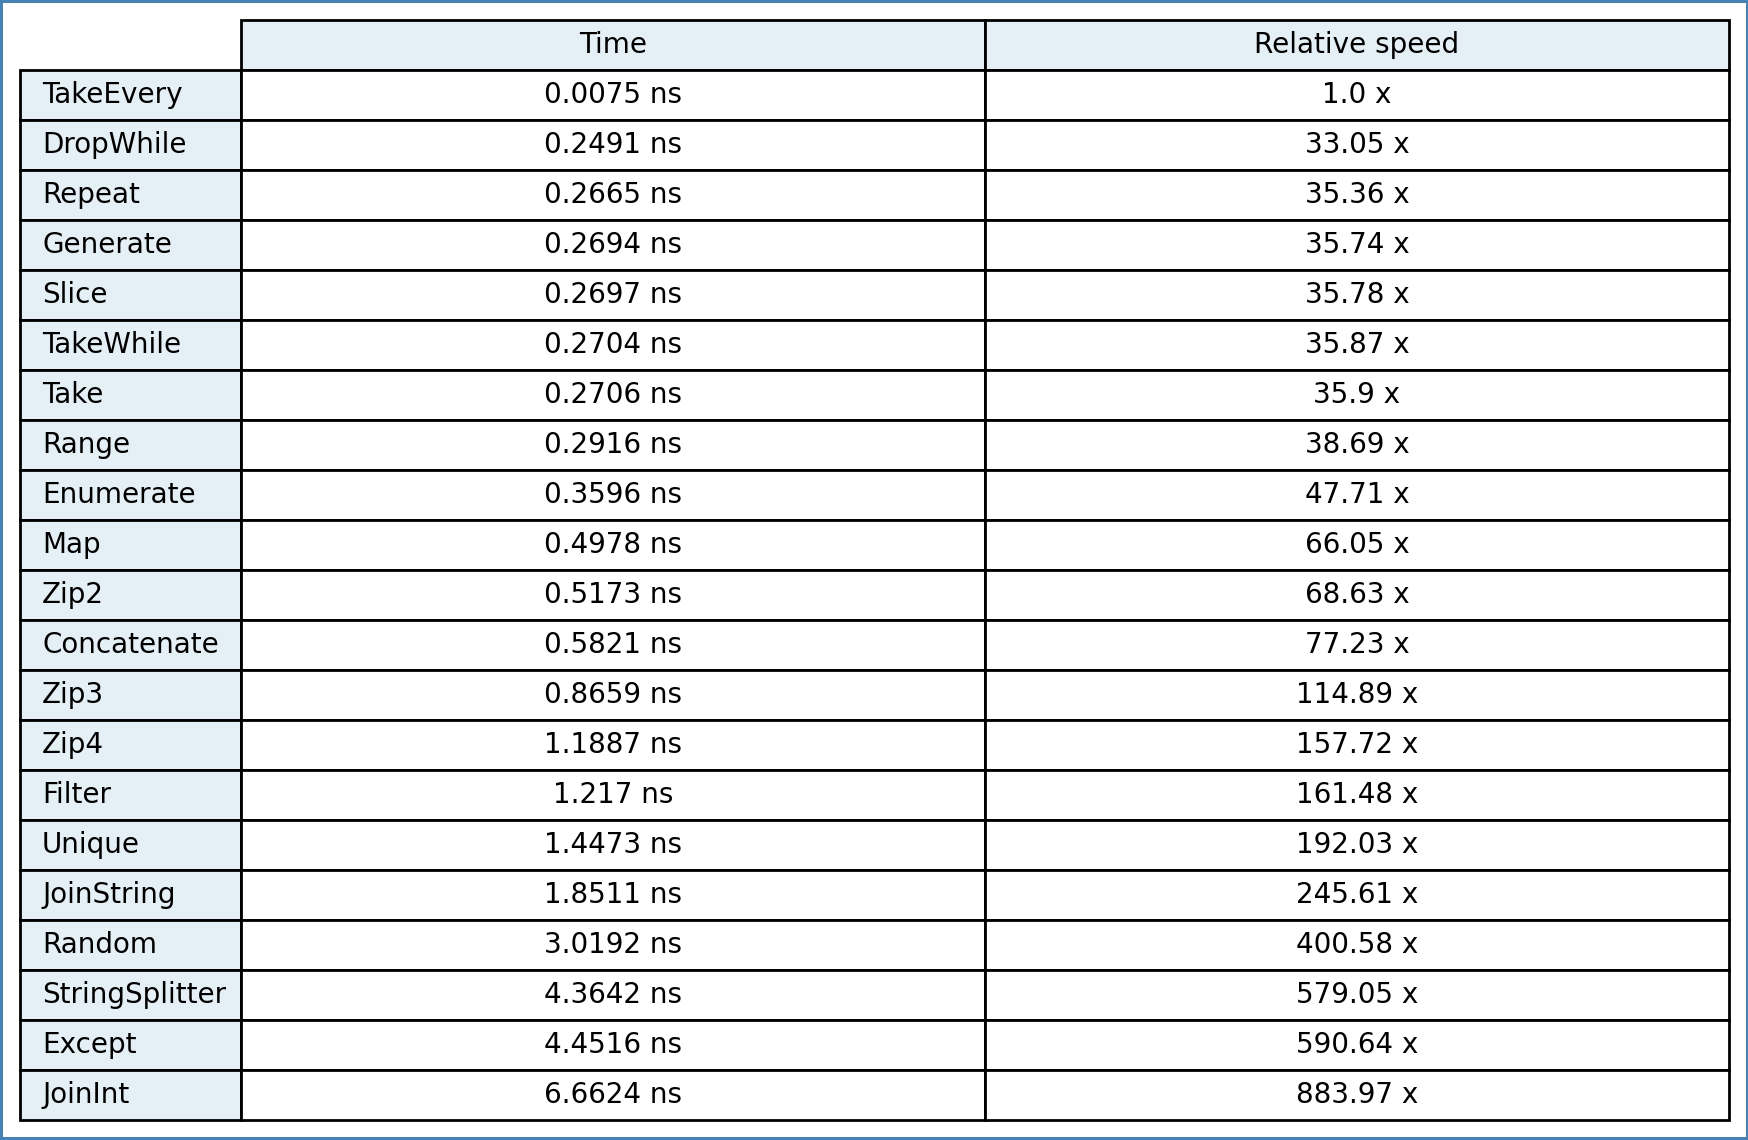
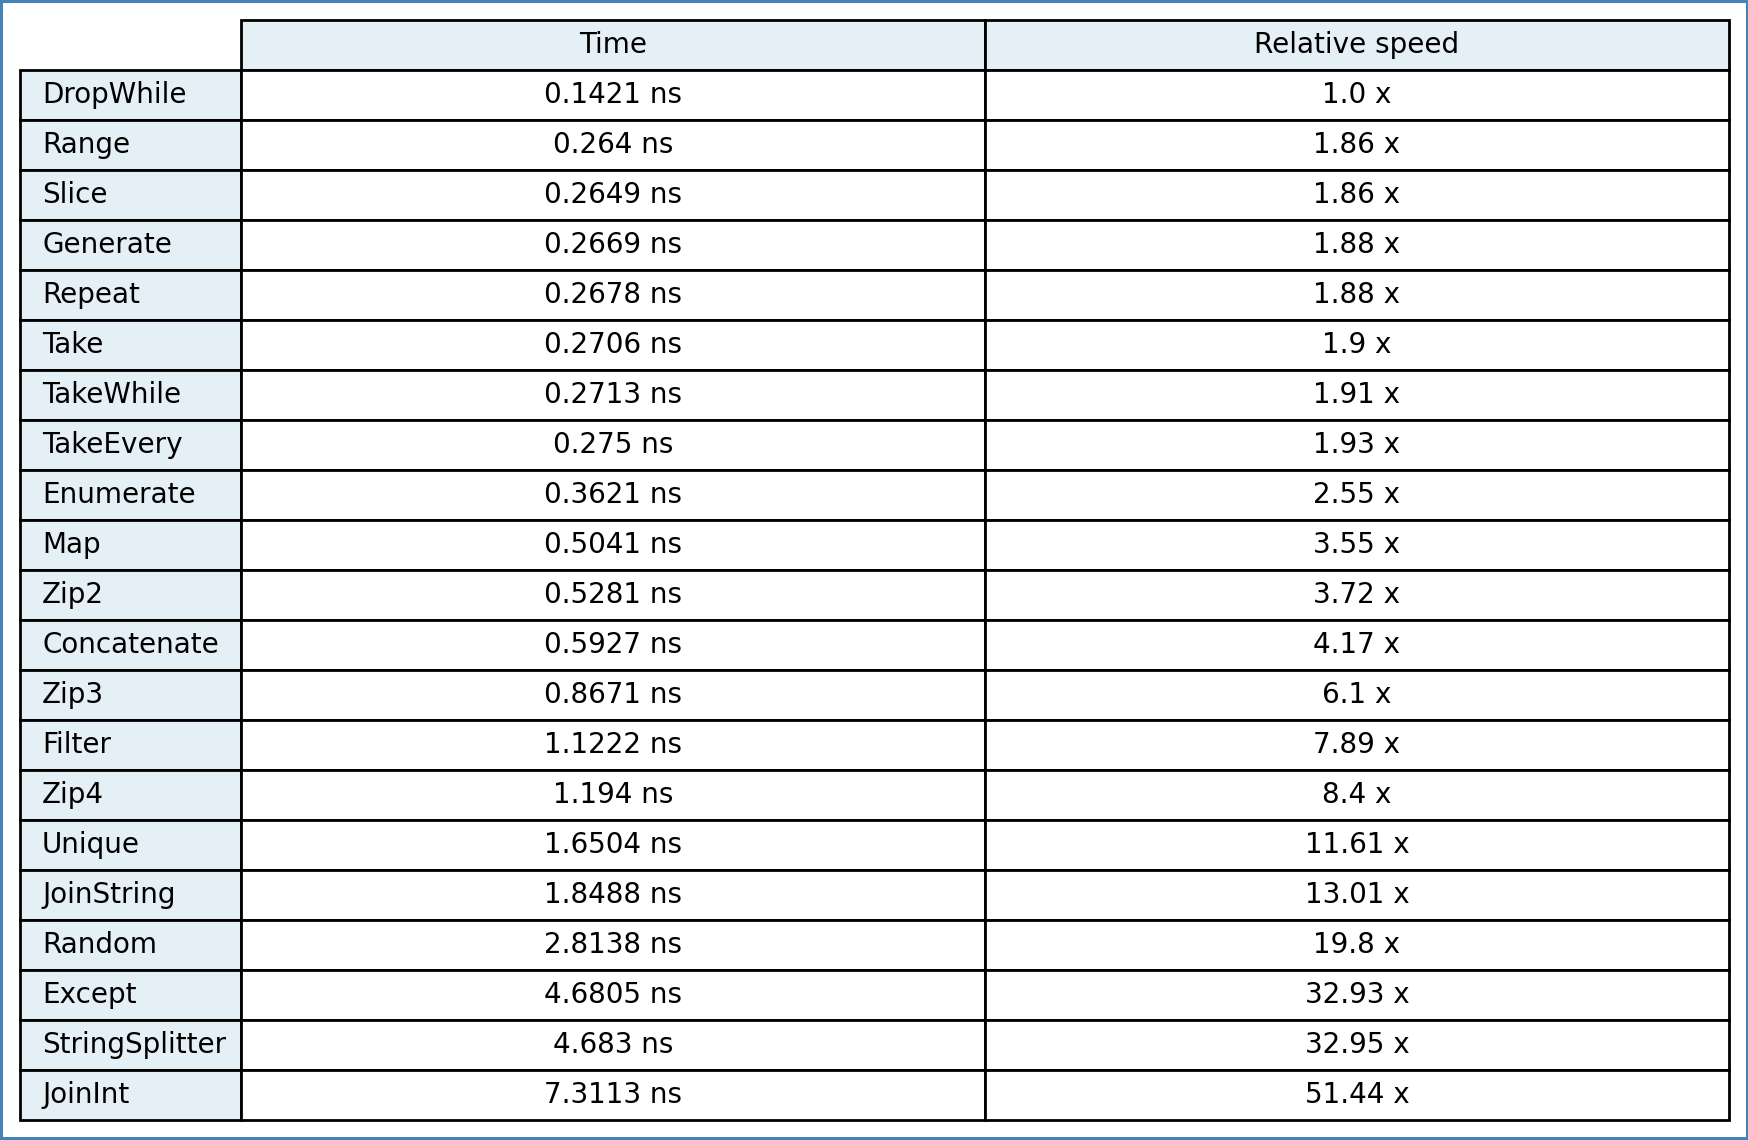
Created a more accurate benchmark

diff --git a/bench/benchmarks-iterators.cpp b/bench/benchmarks-iterators.cpp
@@ -164,8 +164,8 @@ static void Repeat(benchmark::State& state) {
 }
 
 static void TakeEvery(benchmark::State& state) {
-    std::array<int, SizePolicy> array{};
     constexpr size_t offset = 2;
+    std::array<int, SizePolicy * offset> array{};
     auto takeEvery = lz::takeEvery(array, offset);
 
     for (auto _ : state) {
